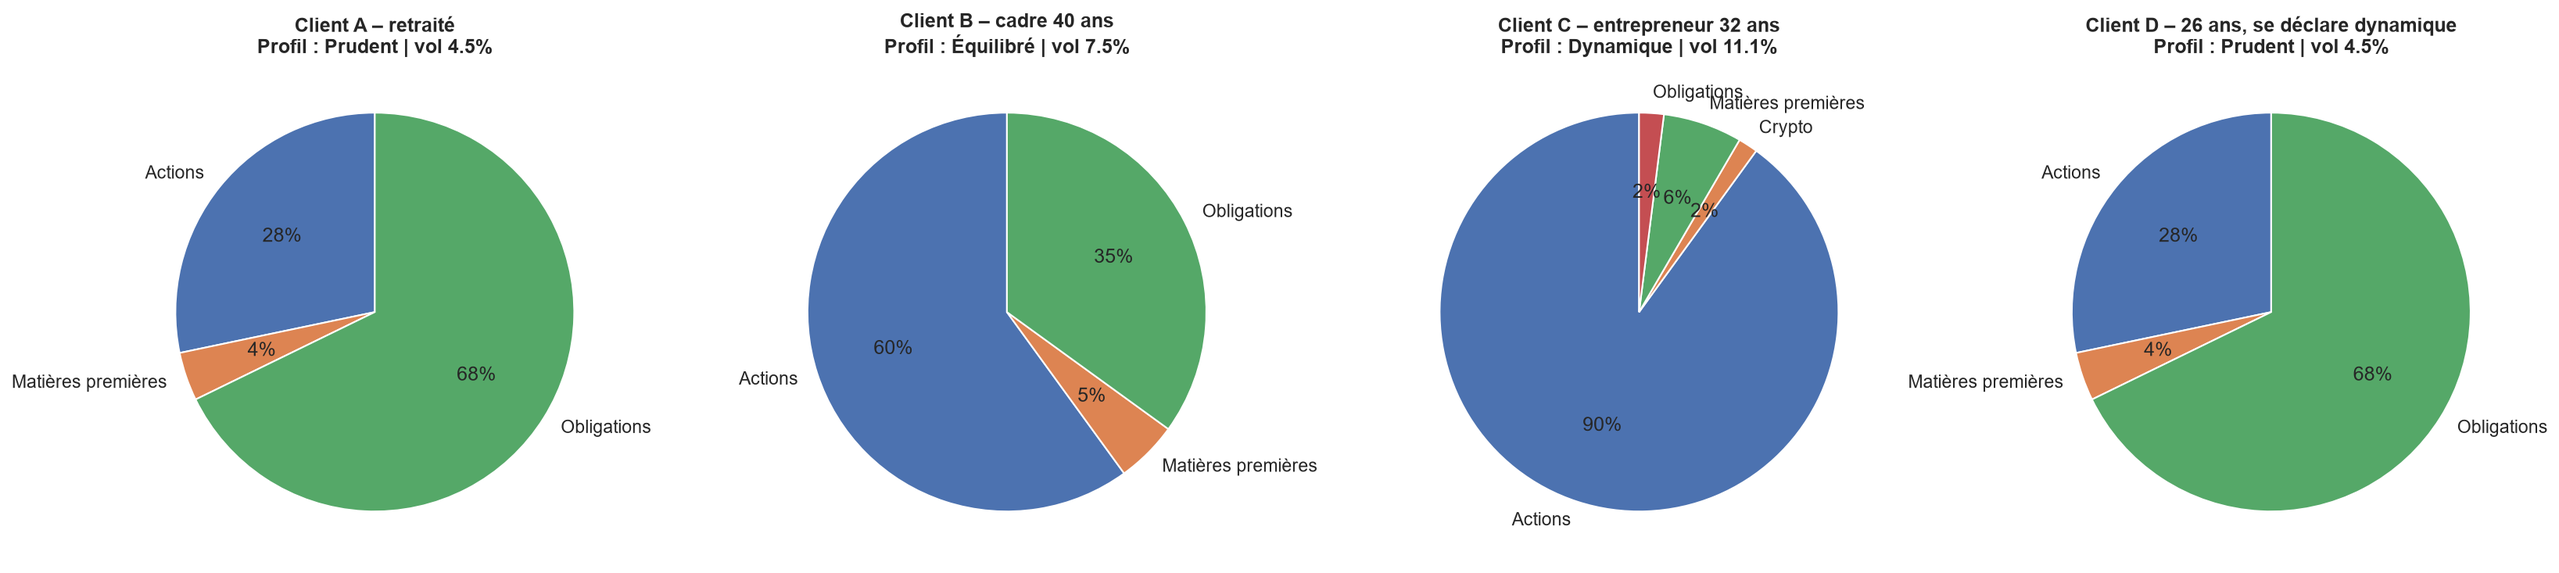
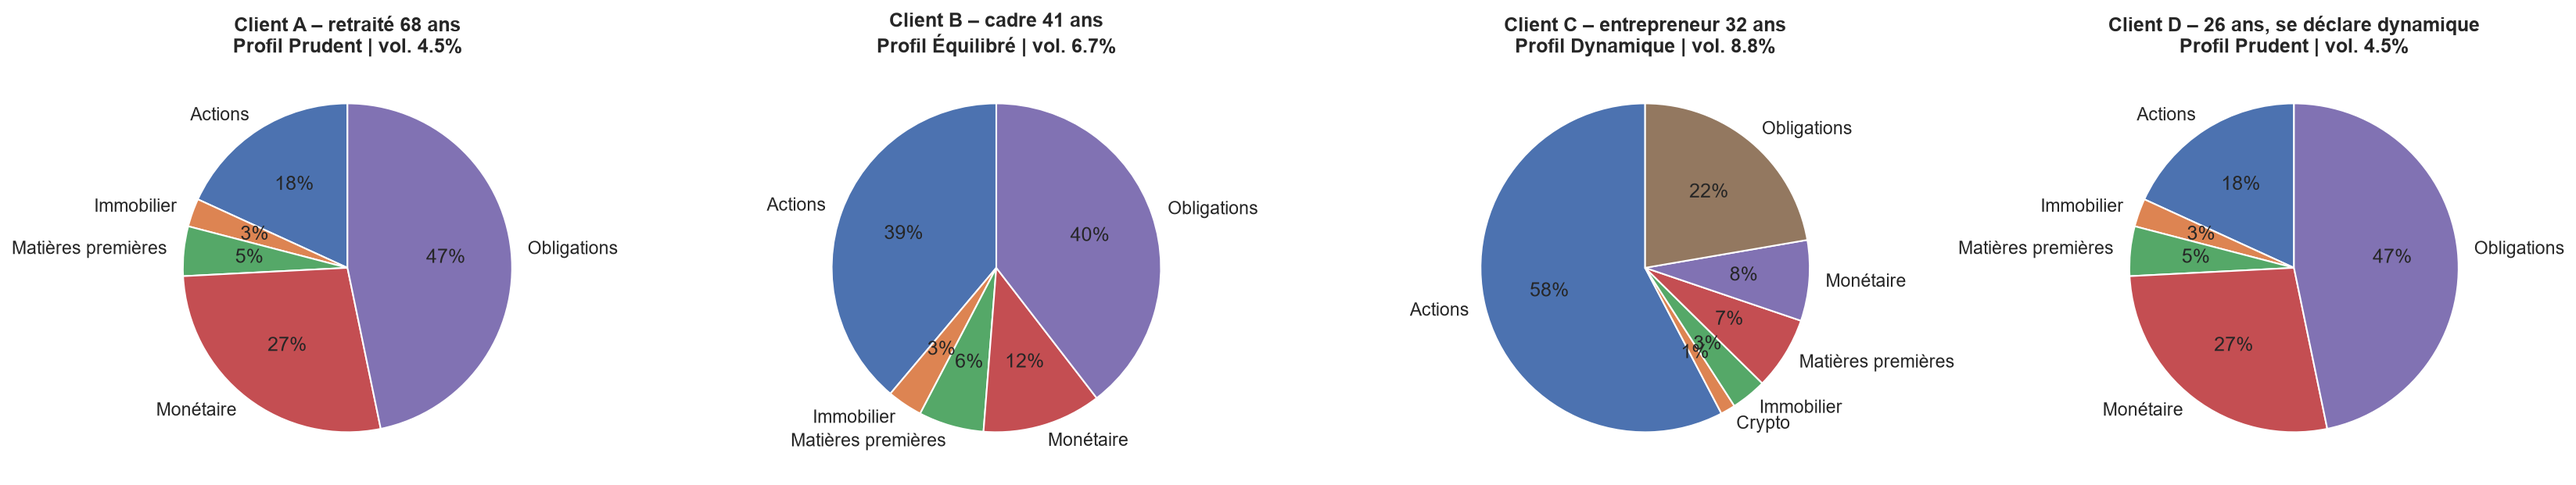
Notebook v4 : section 6 systeme multi-agent (architecture, clients, journal, propriete Black-Litterman, parite de risque et HRP) ; agent Alerte dans l'orchestrateur ; explication du signal indicatif

diff --git a/tools/sections/s06_multi_agent.py b/tools/sections/s06_multi_agent.py
@@ -1,0 +1,159 @@
+from cellules import code, md
+
+CELLS = [
+md(r"""
+## 6. Système multi-agent : orchestration et allocation
+
+### 6.1 Architecture (IA agentique)
+Chaque agent est spécialisé, lit ce dont il a besoin sur un **tableau noir** (*blackboard*) partagé et y publie ses conclusions. Un **orchestrateur** fixe l'ordre d'intervention et gère une **boucle de négociation** entre l'agent Allocation et l'agent Risque.
+
+```
+Client  ──► Agent Profil ──────┐  profil retenu, alerte d'incohérence
+Marché  ──► Agent Régime ──────┤  régime + probabilités → cible de risque ajustée
+Marché  ──► Agent Alerte ──────┤  journée anormale ? (information du conseiller)
+Panel   ──► Agent Prévision ───┤  rendements excédentaires prévus → α (0 si garde-fou)
+Prix    ──► Agent Risque ──────┤  covariance de Ledoit-Wolf
+                               ▼
+              Agent Allocation ⇄ Agent Risque   (si une limite est dépassée : cible de volatilité × 0,9, jusqu'à 3 tours)
+                               ▼
+                       Agent Explication ──► recommandation justifiée + journal des échanges
+```
+
+### 6.2 L'agent Allocation : optimisation moyenne-variance avec a priori de Black-Litterman
+L'agent résout, sous les contraintes du profil (poids maximal par ligne, plafond actions, part défensive minimale obligations + monétaire, plafond sur les obligations longues, budget de volatilité) :
+
+$$\max_w\; w^T\mu \;-\; \frac{\lambda}{2}\,w^T\Sigma w \;-\; \frac{\gamma}{2}\,\lVert w - w_{préc}\rVert^2, \qquad \mu = \pi + \alpha, \qquad \pi = \lambda\,\Sigma\,w_{ref}$$
+
+- $\Sigma$ : covariance estimée par **rétrécissement de Ledoit-Wolf** sur un an (plus stable que la covariance empirique avec 25 actifs) ;
+- $\pi$ : rendements « d'équilibre » implicites de l'**allocation stratégique de référence** du profil $w_{ref}$. Sans signal, l'optimiseur retrouve exactement $w_{ref}$ (vérifié en 6.4) ;
+- $\alpha$ : vues de l'agent Prévision, **nulles** ici puisque le garde-fou de 4.10 n'a pas activé le modèle ;
+- $\lambda$ : aversion au risque du profil, augmentée en régime de stress ; $\gamma$ : pénalité de rotation (frein aux coûts de transaction).
+"""),
+code(r"""
+from src.agents import PortfolioOrchestrator, AllocationAgent, RiskAgent
+from src.allocation import ledoit_wolf_cov, risk_parity, hrp, to_target_vol
+
+orchestrator = PortfolioOrchestrator(profile_bundle, regime_bundle, forecast_bundle, alert_bundle=alert_bundle)
+
+# Clients fictifs : situation financière (variables du SCF, en dollars US) + réponses au questionnaire
+# (indice de l'option choisie, de 0 = la plus prudente à 3 = la plus tolérante ; cf. src/questionnaire.py)
+Q = lambda h, o, r, p, e, part, rev: {"Q_HORIZON": h, "Q_OBJECTIF": o, "Q_REACTION": r, "Q_PERTE": p,
+                                     "Q_EXPERIENCE": e, "Q_PART": part, "Q_REVENUS": rev}
+clients = {
+    "A – retraité 68 ans": {"AGE": 68, "KIDS": 0, "INCOME": 45_000, "NETWORTH": 350_000, "ASSET": 380_000,
+                            "DEBT": 30_000, "LEVRATIO": 0.08, "DEBT2INC": 0.6, "KNOWL": 5, "FINLIT": 2, "HHSEX": 1,
+                            "EDCL": 2, "MARRIED": 1, "OCCAT1": 3, "LIFECL": 5, "HOUSECL": 1, "SAVED": 1,
+                            **Q(1, 0, 1, 1, 1, 1, 2)},
+    "B – cadre 41 ans": {"AGE": 41, "KIDS": 2, "INCOME": 110_000, "NETWORTH": 250_000, "ASSET": 520_000,
+                         "DEBT": 270_000, "LEVRATIO": 0.52, "DEBT2INC": 2.4, "KNOWL": 7, "FINLIT": 3, "HHSEX": 1,
+                         "EDCL": 4, "MARRIED": 1, "OCCAT1": 1, "LIFECL": 3, "HOUSECL": 1, "SAVED": 1,
+                         **Q(2, 2, 2, 2, 2, 1, 2)},
+    "C – entrepreneur 32 ans": {"AGE": 32, "KIDS": 0, "INCOME": 180_000, "NETWORTH": 600_000, "ASSET": 700_000,
+                                "DEBT": 100_000, "LEVRATIO": 0.14, "DEBT2INC": 0.55, "KNOWL": 9, "FINLIT": 3, "HHSEX": 1,
+                                "EDCL": 4, "MARRIED": 2, "OCCAT1": 2, "LIFECL": 1, "HOUSECL": 2, "SAVED": 1,
+                                **Q(3, 3, 3, 3, 2, 2, 2)},
+    # Cas d'incohérence : se déclare très tolérant, mais situation financière fragile
+    "D – 26 ans, se déclare dynamique": {"AGE": 26, "KIDS": 1, "INCOME": 22_000, "NETWORTH": -8_000, "ASSET": 6_000,
+                                         "DEBT": 14_000, "LEVRATIO": 2.3, "DEBT2INC": 0.64, "KNOWL": 2, "FINLIT": 1,
+                                         "HHSEX": 2, "EDCL": 2, "MARRIED": 2, "OCCAT1": 1, "LIFECL": 1, "HOUSECL": 2,
+                                         "SAVED": 0, **Q(3, 3, 3, 3, 1, 3, 2)},
+}
+last_date = panel.index.get_level_values("date").max()
+demo = {name: orchestrator.recommend(last_date, prices, panel, mkt_feat, client=cl) for name, cl in clients.items()}
+profil_tab = pd.DataFrame({n: {"Score questionnaire": f"{r['profile_detail']['questionnaire']['score']}/21",
+                               "Tolérance déclarée": r["profile_detail"]["declare"],
+                               "P(Prudent) – modèle": f"{r['profile_proba'].get('Prudent', np.nan):.0%}",
+                               "Capacité (modèle)": r["profile_detail"]["capacite"],
+                               "Profil retenu": r["profile"],
+                               "Alerte conseiller": "oui" if r["profile_detail"]["alerte"] else "non",
+                               "Vol. ex ante": f"{r['metrics']['vol_ex_ante']:.1%}"} for n, r in demo.items()}).T
+profil_tab
+"""),
+md(r"""
+### 6.3 Recommandation expliquée et journal des échanges entre agents
+"""),
+code(r"""
+res_d = demo["D – 26 ans, se déclare dynamique"]
+print(res_d["explanation"])
+print("\nJournal des échanges (client D) :")
+display(res_d["log"])
+
+alloc_tab = pd.DataFrame({n: r["weights"] for n, r in demo.items()}).fillna(0)
+alloc_tab = alloc_tab[(alloc_tab > 0.005).any(axis=1)]
+alloc_tab.insert(0, "Classe", alloc_tab.index.map(ASSET_CLASS))
+display(alloc_tab.sort_values("Classe").style.format({c: "{:.1%}" for c in demo}))
+fig, axes = plt.subplots(1, len(demo), figsize=(5.5 * len(demo), 5))
+for ax, (n, r) in zip(axes, demo.items()):
+    ex = pd.Series(r["metrics"]["expositions"])
+    ex = ex[ex > 0.005]
+    ax.pie(ex, labels=ex.index, autopct="%1.0f%%", startangle=90)
+    ax.set_title(f"Client {n}\nProfil {r['profile']} | vol. {r['metrics']['vol_ex_ante']:.1%}")
+plt.tight_layout()
+savefig("17_demo_allocations")
+plt.show()
+"""),
+md(r"""
+**Lecture** : le client D se déclare dynamique (questionnaire), mais sa situation financière (revenu faible, patrimoine négatif, endettement) le rapproche des ménages prudents : le profil est ramené au plus prudent des deux et une **alerte** est adressée au conseiller. Le journal montre la séquence complète des échanges entre agents, y compris la décision du garde-fou de l'agent Prévision : ses prévisions sont affichées à titre indicatif, mais n'entrent pas dans l'allocation.
+
+**À noter** : à la date de la démonstration, le marché est en régime **Stress** (volatilité élevée). La cible de risque de chaque profil est donc réduite, ce qui explique des volatilités ex ante inférieures aux cibles nominales (6 %, 10 %, 16 %). L'intensité de cette réduction sera choisie sur la période de validation en section 7.
+
+### 6.4 Vérification de la propriété de Black-Litterman
+Sans vue ($\alpha = 0$), avec l'aversion de base, une cible de volatilité non contraignante et sans portefeuille précédent, l'optimiseur doit retrouver **exactement** l'allocation de référence $w_{ref}$ : on vérifie l'écart maximal, en points de pourcentage, à plusieurs dates. En régime de stress (aversion plus forte, cible de volatilité plus basse), le portefeuille s'écarte au contraire **volontairement** de la référence, vers moins de risque.
+"""),
+code(r"""
+bl_rows = []
+for d in [pd.Timestamp("2019-06-28"), pd.Timestamp("2022-06-30"), last_date]:
+    d = prices.index[prices.index <= d][-1]
+    R = returns.loc[:d].tail(LOOKBACK_COV)
+    R = R.loc[:, R.notna().mean() >= 0.9]
+    cov_d = RiskAgent().estimate(R)
+    for prof in PROFILE_CLASSES:
+        c = PROFILE_CONSTRAINTS[prof]
+        w_ref = PortfolioOrchestrator.benchmark_weights(prof, list(cov_d.index))
+        pi = pd.Series(c["risk_aversion"] * cov_d.values @ w_ref.values, index=cov_d.index)
+        w_a = AllocationAgent().optimize(pi, cov_d, c, 10.0, c["risk_aversion"], None)
+        m_s = REGIME_MULTIPLIER_GRID["modérée"]["Stress"]
+        w_b = AllocationAgent().optimize(pi, cov_d, c, c["target_vol"] * m_s, c["risk_aversion"] / m_s, None)
+        bl_rows.append({"date": d.date(), "profil": prof, "vol. de la référence": float(np.sqrt(w_ref @ cov_d @ w_ref)),
+                        "cible de vol.": c["target_vol"], "écart max (propriété)": (w_a - w_ref).abs().max(),
+                        "écart max (régime Stress)": (w_b - w_ref).abs().max()})
+bl_check = pd.DataFrame(bl_rows).set_index(["date", "profil"])
+bl_check.to_csv(RESULTS_DIR / "verification_black_litterman.csv")
+assert bl_check["écart max (propriété)"].max() < 0.005, "La propriété de Black-Litterman n'est pas vérifiée"
+bl_check.style.format("{:.2%}")
+"""),
+md(r"""
+### 6.5 Allocations de référence fondées uniquement sur le risque
+Pour juger l'agent Allocation, on calcule à la même date trois allocations qui n'utilisent **aucune prévision de rendement** :
+- **Parité de risque** (*Equal Risk Contribution*) : chaque actif contribue autant au risque total, $RC_i = w_i(\Sigma w)_i/\sigma_p$ égales.
+- **HRP** (*Hierarchical Risk Parity*) : les actifs sont regroupés par **classification hiérarchique** (comme la CAH, sur la distance $d_{ij}=\sqrt{\tfrac12(1-\rho_{ij})}$), puis le risque est réparti récursivement entre les groupes. Robuste, car il n'inverse pas la matrice de covariance.
+- **1/N** : poids égaux.
+
+Chacune est ramenée à la volatilité cible du profil en la mélangeant avec la poche monétaire (SHY), pour comparer **à risque égal**.
+"""),
+code(r"""
+R_last = returns.loc[:last_date].tail(LOOKBACK_COV)
+cov_last = ledoit_wolf_cov(R_last)
+refs = {"Parité de risque": risk_parity(cov_last), "HRP": hrp(cov_last),
+        "1/N": pd.Series(1 / len(cov_last), index=cov_last.index)}
+rows_ref = []
+for prof in PROFILE_CLASSES:
+    tv = PROFILE_CONSTRAINTS[prof]["target_vol"]
+    r_ma = orchestrator.recommend(last_date, prices, panel, mkt_feat, profile=prof, explain=False)
+    cands_w = {"Multi-agent": r_ma["weights"], **{k: to_target_vol(w, cov_last, tv) for k, w in refs.items()}}
+    for nom, w in cands_w.items():
+        w = w.reindex(cov_last.index).fillna(0)
+        cls = w.groupby(w.index.map(ASSET_CLASS)).sum()
+        rows_ref.append({"profil": prof, "stratégie": nom, "vol. ex ante": float(np.sqrt(w @ cov_last.values @ w)),
+                         "Actions + immo.": cls.get("Actions", 0) + cls.get("Immobilier", 0),
+                         "Obligations": cls.get("Obligations", 0), "Monétaire": cls.get("Monétaire", 0),
+                         "Matières premières": cls.get("Matières premières", 0), "Crypto": cls.get("Crypto", 0),
+                         "nb lignes > 1 %": int((w > 0.01).sum())})
+ref_tab = pd.DataFrame(rows_ref).set_index(["profil", "stratégie"])
+display(ref_tab.style.format({c: "{:.1%}" for c in ref_tab.columns if c != "nb lignes > 1 %"}))
+chrono("6. Système multi-agent")
+"""),
+md(r"""
+**Lecture** : à risque égal, les allocations fondées uniquement sur le risque (parité de risque, HRP) sont dominées par les obligations et le monétaire, qui sont les actifs les moins volatils. L'agent Allocation, qui part de l'allocation stratégique du profil, conserve davantage d'actions pour les profils Équilibré et Dynamique, conformément à leur objectif de croissance. Le backtest de la section 7 dira laquelle de ces approches a le mieux fonctionné hors échantillon.
+"""),
+]

diff --git a/src/agents.py b/src/agents.py
@@ -169,7 +169,43 @@ class MarketRegimeAgent(BaseAgent):
 
 
 # ---------------------------------------------------------------------------
-# 3. Agent Prévision (classification supervisée de la surperformance)
+# 2 bis. Agent Alerte (détection d'anomalies sur la journée de marché)
+# ---------------------------------------------------------------------------
+class AlertAgent(BaseAgent):
+    """Vote de 4 détecteurs d'anomalies (gaussienne multivariée, Isolation Forest, LOF,
+    One-Class SVM) appris sur l'entraînement. Alerte si au moins `min_votes` sont d'accord."""
+    name = "Agent Alerte"
+
+    def __init__(self, bundle: dict, blackboard=None):
+        super().__init__(blackboard)
+        self.detectors = bundle["detectors"]
+        self.features = bundle["features"]
+        self.min_votes = bundle.get("min_votes", 3)
+
+    def run(self, market_row: pd.Series) -> dict:
+        x = pd.DataFrame([market_row.reindex(self.features).astype(float).values], columns=self.features)
+        if x.isna().any(axis=None):
+            res = {"alerte": False, "votes": 0, "detail": {}, "message": "Données incomplètes : alerte non évaluée"}
+            self.post("alert", res, res["message"])
+            return res
+        Z = self.detectors["scaler"].transform(x)
+        detail = {}
+        for name, det in self.detectors.items():
+            if name == "scaler":
+                continue
+            pred = det.predict(Z)[0]
+            detail[name] = bool(pred) if name == "Gaussienne multivariée" else bool(pred == -1)
+        votes = int(sum(detail.values()))
+        alerte = votes >= self.min_votes
+        msg = (f"⚠ Journée de marché anormale : {votes}/4 détecteurs en alerte" if alerte
+               else f"Marché sans anomalie détectée ({votes}/4 détecteurs)")
+        res = {"alerte": alerte, "votes": votes, "detail": detail, "message": msg}
+        self.post("alert", res, msg)
+        return res
+
+
+# ---------------------------------------------------------------------------
+# 3. Agent Prévision (régression du rendement excédentaire ou classification)
 # ---------------------------------------------------------------------------
 class ForecastAgent(BaseAgent):
     """Transforme les probabilités de surperformance en rendements espérés
@@ -205,6 +241,7 @@ class ForecastAgent(BaseAgent):
         out["alpha"] = self.ic * out["vol"] * out["z"]
         top = out["score"].sort_values(ascending=False).head(3).index.tolist()
         etat = "signal utilisé" if self.ic > 0 else "signal non utilisé (α = 0, garde-fou)"
+        self.post("forecast_active", self.ic > 0)
         self.post("forecast", out, f"Prévisions pour {len(out)} actifs – favoris : {', '.join(top)} – {etat}")
         return out
 
@@ -377,6 +414,10 @@ class ExplanationAgent(BaseAgent):
         lines.append(f"**Régime de marché** : {regime} (probabilité {rp.get(regime, 1):.0%}) – "
                      f"la cible de volatilité est ajustée d'un facteur "
                      f"{bb.get('vol_multiplier', REGIME_VOL_MULTIPLIER.get(regime, 1)):.2f}.")
+        al = bb.get("alert")
+        if al and al.get("alerte"):
+            lines.append(f"⚠ **Agent Alerte** : {al['message']}. Le conseiller est invité à vérifier la situation "
+                         f"de marché avant d'investir.")
         exp = met["expositions"]
         lines.append("**Répartition par classe** : " + ", ".join(
             f"{k} {v:.0%}" for k, v in sorted(exp.items(), key=lambda x: -x[1]) if v > 0.005) + ".")
@@ -389,10 +430,11 @@ class ExplanationAgent(BaseAgent):
             if wt < 0.01:
                 break
             if fc is not None and t in fc.index and "prevision" in fc:
-                rg, pv = fc.loc[t, "rang"], fc.loc[t, "prevision"]
-                avis = "signal favorable" if rg > 0.7 else ("signal défavorable" if rg < 0.3 else "signal neutre")
-                lines.append(f"- {t} ({ASSET_NAME.get(t, t)}) : {wt:.1%} – rendement excédentaire prévu "
-                             f"{pv:+.1%} à 1 mois ({avis}).")
+                pv = fc.loc[t, "prevision"]
+                rank = int(fc["score"].rank(ascending=False)[t])
+                note = "" if bb.get("forecast_active") else " – indicatif, non utilisé dans l'allocation"
+                lines.append(f"- {t} ({ASSET_NAME.get(t, t)}) : {wt:.1%} – écart de rendement prévu vs la moyenne "
+                             f"des actifs : {pv:+.1%} à 1 mois (rang {rank}/{len(fc)}{note}).")
             else:
                 p = fc.loc[t, "proba"] if fc is not None and t in fc.index else np.nan
                 avis = "signal favorable" if p > 0.55 else ("signal défavorable" if p < 0.45 else "signal neutre")
@@ -416,10 +458,11 @@ class ExplanationAgent(BaseAgent):
 class PortfolioOrchestrator:
     def __init__(self, profile_bundle=None, regime_bundle=None, forecast_bundle=None,
                  lookback: int = LOOKBACK_COV, max_negotiation_rounds: int = 3,
-                 turnover_penalty: float = TURNOVER_PENALTY):
+                 turnover_penalty: float = TURNOVER_PENALTY, alert_bundle=None):
         self.profile_bundle = profile_bundle
         self.regime_bundle = regime_bundle
         self.forecast_bundle = forecast_bundle
+        self.alert_bundle = alert_bundle
         self.lookback = lookback
         self.max_rounds = max_negotiation_rounds
         self.turnover_penalty = (forecast_bundle or {}).get("turnover_penalty", turnover_penalty)
@@ -461,6 +504,10 @@ class PortfolioOrchestrator:
         else:
             regime = "Neutre"
             bb.post("Agent Régime", "regime", regime, "Régime par défaut")
+        # 2 bis) Alerte (information pour le conseiller ; ne modifie pas l'allocation)
+        alert = None
+        if self.alert_bundle is not None:
+            alert = AlertAgent(self.alert_bundle, bb).run(market_features.loc[:date].iloc[-1])
         mult = self.regime_mult.get(regime, 1.0)
         bb.post("Orchestrateur", "vol_multiplier", mult, f"Facteur de risque du régime {regime} : {mult:.2f}")
         target_vol = cons["target_vol"] * mult
@@ -512,6 +559,6 @@ class PortfolioOrchestrator:
                                 bb).run(date) if explain else ""
         return {"date": date, "profile": prof, "regime": regime, "weights": w,
                 "profile_proba": bb.get("profile_proba"), "regime_proba": bb.get("regime_proba"),
-                "profile_detail": bb.get("profile_detail"),
+                "profile_detail": bb.get("profile_detail"), "alert": alert,
                 "metrics": metrics, "explanation": text, "log": bb.log(),
                 "forecast": bb.get("forecast")}

diff --git a/tools/construire_notebook.py b/tools/construire_notebook.py
@@ -45,11 +45,17 @@ def build(upto: int | None = None, skip: tuple = ()) -> nbformat.NotebookNode:
 
 
 def execute(path: Path, timeout: int = 5400) -> None:
-    from nbconvert.preprocessors import ExecutePreprocessor
+    from nbconvert.preprocessors import ExecutePreprocessor, CellExecutionError
     nb = nbformat.read(path, as_version=4)
     t0 = time.time()
-    ExecutePreprocessor(timeout=timeout, kernel_name="python3").preprocess(
-        nb, {"metadata": {"path": str(path.parent)}})
+    try:
+        ExecutePreprocessor(timeout=timeout, kernel_name="python3").preprocess(
+            nb, {"metadata": {"path": str(path.parent)}})
+    except CellExecutionError as exc:
+        nbformat.write(nb, path)          # on garde les sorties jusqu'à l'erreur, pour diagnostic
+        msg = str(exc)
+        print("ERREUR D'EXÉCUTION :", msg[-3000:])
+        sys.exit(1)
     nbformat.write(nb, path)
     print(f"Exécution terminée en {time.time() - t0:.0f} s")
 

diff --git a/src/anomalies.py b/src/anomalies.py
@@ -84,10 +84,11 @@ class GaussianAnomaly:
         return self
 
     def score(self, Z):
-        return -self.dist_.logpdf(Z)            # plus grand = plus anormal
+        return -np.atleast_1d(self.dist_.logpdf(Z))      # plus grand = plus anormal
 
     def predict(self, Z):
-        return self.dist_.logpdf(Z) <= self.eps_
+        # atleast_1d : scipy renvoie un scalaire quand on lui passe une seule observation
+        return np.atleast_1d(self.dist_.logpdf(Z)) <= self.eps_
 
 
 def fit_detectors(M_train: pd.DataFrame, contamination: float = 0.02) -> dict:
